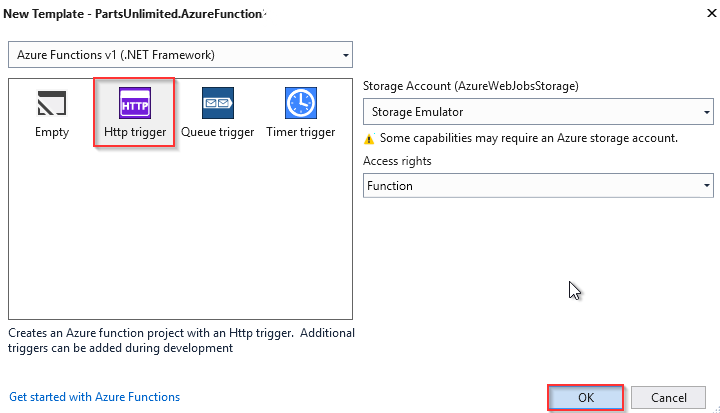
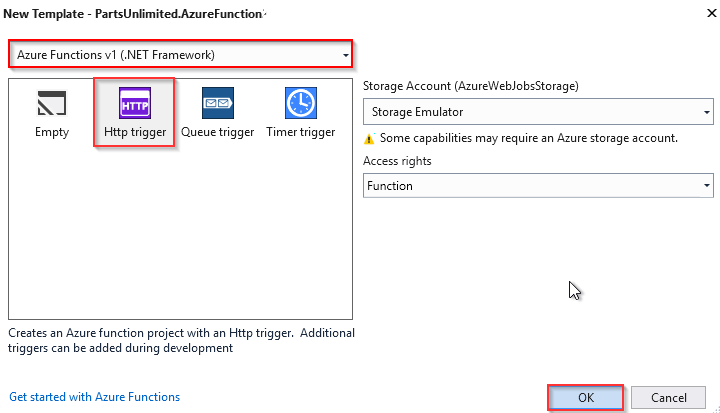
updated changes

Changed region(s): [[0.0, 0.0872, 0.5194, 0.1743]]

diff --git a/HOL/readme.md b/HOL/readme.md
@@ -53,7 +53,7 @@ Next, you will provision a Team services account.
 
 ### Part C: Import and clone the project repository
 
-1. Navigate to the **Code** hub. As you have not created any code yet, you will see an empty repository. You can clone the remote repository to your local machine and start adding code. You can also import code from an another repository if you have existing code.
+1. Navigate to the **Code** hub. Since there is no code yet, you wil see an empty repository. You can clone the remote repository to your local machine and start adding code or you can import code from an another code repository.
 
 1. For the purpose of this lab, you will import it from **GitHub**. Select **import** and enter https://github.com/sriramdasbalaji/AzureFunctionsBuild.git in the **Clone URL** field and select **Import**
 
@@ -68,6 +68,10 @@ Next, you will provision a Team services account.
    Note that VSTS supports a wide variety of IDEs including Eclipse, IntelliJ, XCode, Android Developer Studio, Visual Studio Code, etc.
 
 1. When the code opens in Visual Studio, if you are prompted to sign into Visual Studio Team Services, use the same credentials(that you used above to create the VSTS account) and select **Clone**
+
+1. You can use the same credentials used above to log in to Azure
+     > Username: ++@lab.CloudPortalCredential(1).Username++      
+     > Password: ++@lab.CloudPortalCredential(1).Password++
 
      ![clonepath](images/clonepath.png)
 
@@ -110,7 +114,7 @@ Although you have used a simple condition here, this could also use more complex
 
       ![copytheazurefunctionurl](images/copyazurefunctionurl.png)
 
-1. Next you will add code to the Functions App. While there are many ways you could do it, you will use Visual Studio in this lab. You will write code to redirect to the right APIs based on the user login, to return different (discount) information.
+1. Next you will add code to the Functions App. While there are many ways of doing it, you will use Visual Studio in this lab. You will write code to redirect to the right APIs based on the user login, to return different (discount) information.
 
 1. Return to Visual Studio, double click on the **PartsUnlimited.sln** solution to open it.
 
@@ -122,7 +126,7 @@ Although you have used a simple condition here, this could also use more complex
 
      ![azurefunctionprojdetails](images/azurefunctionprojdetails.png)
 
-1. Select **HttpTrigger** template and click **OK**
+1. Select **HttpTrigger** template, **Azure Functions v1 (.NET Framework)** from the framework dropdown and click **OK**
     
 
     ![httptrigger](images/httptrigger.png)
@@ -151,7 +155,7 @@ Although you have used a simple condition here, this could also use more complex
         {
             var userIdKey = req.GetQueryNameValuePairs().FirstOrDefault(q => string.Equals(q.Key, "UserId", StringComparison.OrdinalIgnoreCase));
             var userId = string.IsNullOrEmpty(userIdKey.Value) ? int.MaxValue : Convert.ToInt64(userIdKey.Value);
-            var url = $"https://<<YourAPIAppServiceUrl>>.azurewebsites.net/api/{(userId > 10 ? "v1" : "v2")}/specials/GetSpecialsByUserId?id={userId}";
+            var url = $"https://<<YourAPIAppServiceUrl>>/api/{(userId > 10 ? "v1" : "v2")}/specials/GetSpecialsByUserId?id={userId}";
             using (HttpClient httpClient = new HttpClient())
             {
                 return await httpClient.GetAsync(url);
@@ -161,7 +165,7 @@ Although you have used a simple condition here, this could also use more complex
    }
    ```
 
-   > Replace **YourAPIAppServiceUrl** in url variable with API app service name.You can find this in **@lab.CloudResourceGroup(268).Name**. This would look like as **PartsUnlimited-API-XXXXXXX**. 
+1. Navigate to the resource group  **@lab.CloudResourceGroup(268).Name** in the Azure Portal. Click **PartsUnlimited-API-XXXXXXX.azurewebsites.net** and click the **Copy** icon under the **URL** section to copy the whole URL. Copy and replace **YourAPIAppServiceUrl** in url variable with API app service name. 
 
 1. Open **StoreController.cs** from the path **PartsUnlimitedWebsite > Controllers > StoreController.cs**
 
@@ -251,9 +255,8 @@ Although you have used a simple condition here, this could also use more complex
    }
    ```
 1. In **StoreController.cs**, replace the **url**  variable in line 46 with the **Function url** copied in **Step 7**.
- ![updatefunctionurl](images/updatefunctionurl.png)
-
-1. Click **Changes** in **Team Explorer**, provide a comment and select **Commit all and Push** to push the changes to the remote repository.
+ 
+ 1. Click **Changes** in **Team Explorer**, provide a comment and select **Commit all and Push** to push the changes to the remote repository.
 
       ![pushfunctionproject](images/pushfucntionproject.png)
       
@@ -267,10 +270,10 @@ Although you have used a simple condition here, this could also use more complex
    ![selecttemplate](images/selecttemplate.png)
 
    
-1. Now you will see that the required tasks are automatically added to the build definition by the template. These are the steps that will automatically run every time you push code changes.
+1. Now you will see that all the required tasks are automatically added to the build definition by the template. These are the steps that will automatically run every time within the build definition when you commit the code.
     
       ![buildtasks](images/buildtasks.png)
-1. Select **Publish** task. Uncheck the **Publish Web Projects** field and enter ****/*.csproj** in **Path to Projects** field.
+1. Select **Publish** task. Uncheck the **Publish Web Projects** field and enter **/*.csproj in **Path to Projects** field.
 
 
    ![buildpublishtask](images/buildpublishtask.png)
@@ -280,7 +283,7 @@ Although you have used a simple condition here, this could also use more complex
 
 1. Select **Save & queue** to start your first build. On the **Save build definition and queue** dialog, select **Save & queue**.
 
-1. A new build is started. You'll see a link to the new build on the top of the page. Click the link to watch the new build as it happens. Wait for the build to complete and succeed before proceeding to the next section.
+1. A new build is started. You will see a link to the new build on the top of the page. Click the link to watch the live logs of the build as it happens. Wait for the build to complete and succeed before proceeding to the next section.
 ![buildqueued2](images/buildqueued2.png)
 
 ## Exercise 3: Setup continuous deployment
@@ -336,10 +339,9 @@ You can watch the live logs for the deployment as it happens. Wait for the relea
 
 ## Exercise 4: Verify the website
 
-1. Once deployment has completed, go to the **Azure portal**. In **
-@lab.CloudResourceGroup(268).Name** resource group select **PartsUnlimited-Web-xxxxx** and click **Browse**
+1. Once deployment has completed, go to the **Azure portal**. In **@lab.CloudResourceGroup(268).Name** resource group select **PartsUnlimited-Web-xxxxx** and click **Browse**
 
-1. You will see the website as shown below. Navigate to **Oil** category, notice that products are showing Discount as **10%**.
+1. You will see the website as shown below. Navigate to **Oil** category, notice that products are showing discount as **10%**.
 
    ![verifywebsiteV1](images/verifywebsiteV1.png)
 
